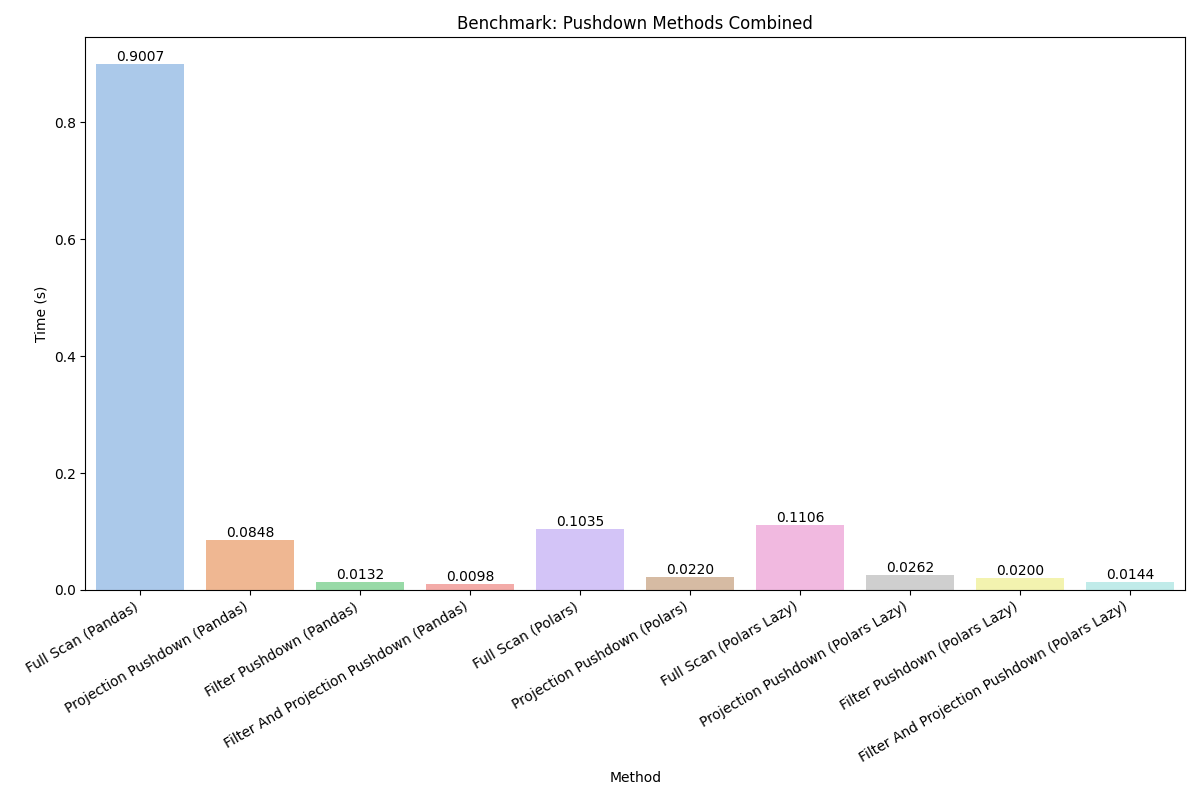
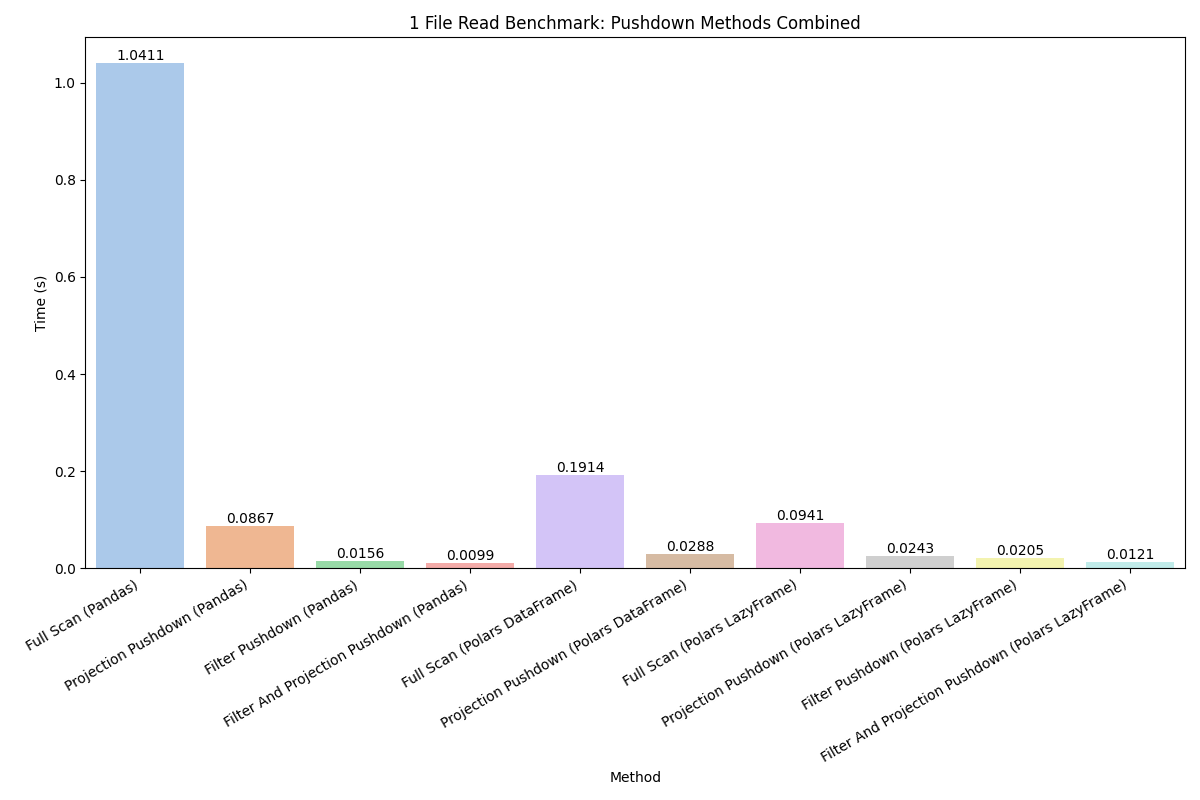
updated pushdown methods to be more accurate functions. experimented with sink_parquet and write_parquet speeds with polars

diff --git a/engine_speed/pushdown_comparisons.py b/engine_speed/pushdown_comparisons.py
@@ -6,6 +6,8 @@ import benchmark as bm
 FILE = "data/taxi_2019_04.parquet"
 FILTER = [("pickup_at", ">", datetime(2019, 6, 30))]
 COLUMNS = ["pickup_at", "total_amount"]  # subset for projection
+TITLE_START = "1 File Read Benchmark"
+SHOW_PLOTS = False
 REPEAT_TIMES = 5
 
 ### Pushdown comparisons for Pandas and Polars
@@ -13,7 +15,7 @@ REPEAT_TIMES = 5
 # --- Full scan: read everything, filter after
 def pd_read_all_then_filter():
     df = pd.read_parquet(FILE)
-    return df[df["pickup_at"] > pd.Timestamp("2019-06-30")]
+    return df[df["pickup_at"] > pd.Timestamp("2019-06-30")][COLUMNS]
 
 # --- Projection pushdown only
 def pd_read_columns_then_filter():
@@ -22,7 +24,7 @@ def pd_read_columns_then_filter():
 
 # --- Filter pushdown (pyarrow backend)
 def pd_read_with_filter_pushdown():
-    return pd.read_parquet(FILE, engine="pyarrow", filters=FILTER)
+    return pd.read_parquet(FILE, engine="pyarrow", filters=FILTER)[COLUMNS]
 
 # --- Filter + projection pushdown
 def pd_read_with_filter_and_projection():
@@ -33,7 +35,7 @@ def pd_read_with_filter_and_projection():
 # --- Full scan: read everything, filter after
 def pl_read_all_then_filter():
     df = pl.read_parquet(FILE)
-    return df.filter(pl.col("pickup_at") > datetime(2019, 6, 30))
+    return df.filter(pl.col("pickup_at") > datetime(2019, 6, 30)).select(COLUMNS)
 
 # --- Projection pushdown only
 def pl_read_columns_then_filter():
@@ -46,7 +48,7 @@ def pl_read_columns_then_filter():
 # Polars LazyFrames
 def pl_lazy_read_all_then_filter():
     lf = pl.scan_parquet(FILE)
-    return lf.collect().filter(pl.col("pickup_at") > datetime(2019, 6, 30))
+    return lf.collect().filter(pl.col("pickup_at") > datetime(2019, 6, 30)).select(COLUMNS)
 
 def pl_lazy_read_columns_then_filter():
     lf = pl.scan_parquet(FILE).select(COLUMNS)
@@ -73,14 +75,14 @@ methods_pushdown_pd = {
 }
 
 methods_pushdown_pl_df = {
-    "Full Scan (Polars)": pl_read_all_then_filter,
-    "Projection Pushdown (Polars)": pl_read_columns_then_filter,
+    "Full Scan (Polars DataFrame)": pl_read_all_then_filter,
+    "Projection Pushdown (Polars DataFrame)": pl_read_columns_then_filter,
 }
 methods_pushdown_pl_lf = {
-    "Full Scan (Polars Lazy)": pl_lazy_read_all_then_filter,
-    "Projection Pushdown (Polars Lazy)": pl_lazy_read_columns_then_filter,
-    "Filter Pushdown (Polars Lazy)": pl_lazy_read_with_filter_pushdown,
-    "Filter And Projection Pushdown (Polars Lazy)": pl_lazy_read_with_filter_and_projection,
+    "Full Scan (Polars LazyFrame)": pl_lazy_read_all_then_filter,
+    "Projection Pushdown (Polars LazyFrame)": pl_lazy_read_columns_then_filter,
+    "Filter Pushdown (Polars LazyFrame)": pl_lazy_read_with_filter_pushdown,
+    "Filter And Projection Pushdown (Polars LazyFrame)": pl_lazy_read_with_filter_and_projection,
 }
 
 results_pushdown_pd = bm.run_benchmark(methods_pushdown_pd, runs=REPEAT_TIMES)
@@ -93,16 +95,15 @@ results_pushdown_pl_lf = bm.run_benchmark(methods_pushdown_pl_lf, runs=REPEAT_TI
 results_pushdown_pl_lf_relative = bm.relative_speeds(results_pushdown_pl_lf)
 
 results_combined = {**results_pushdown_pd, **results_pushdown_pl_df, **results_pushdown_pl_lf}
-print(results_combined)
 
-# # Plotting the results
-bm.plot_results(results_pushdown_pd, "Benchmark: Pushdown Methods (Pandas)", "speed_pushdown_methods_pandas.png")
-bm.plot_results(results_pushdown_relative_pd, "Benchmark: Pushdown Methods (Pandas)", relative=True)
+# Plotting the results
+bm.plot_results(results_pushdown_pd, f"{TITLE_START}: Pushdown Methods (Pandas)", "speed_pushdown_methods_pandas.png")
+bm.plot_results(results_pushdown_relative_pd, f"{TITLE_START}: Pushdown Methods (Pandas)", relative=True, show=SHOW_PLOTS)
 
-bm.plot_results(results_pushdown_pl_df, "Benchmark: Pushdown Methods (Polars DataFrame)", "speed_pushdown_methods_polars.png")
-bm.plot_results(results_pushdown_pl_df_relative, "Benchmark: Pushdown Methods (Polars DataFrame)", relative=True)
+bm.plot_results(results_pushdown_pl_df, f"{TITLE_START}: Pushdown Methods (Polars DataFrame)", "speed_pushdown_methods_polars.png")
+bm.plot_results(results_pushdown_pl_df_relative, f"{TITLE_START}: Pushdown Methods (Polars DataFrame)", relative=True, show=SHOW_PLOTS)
 
-bm.plot_results(results_pushdown_pl_lf, "Benchmark: Pushdown Methods (Polars LazyFrame)", "speed_pushdown_methods_polars_lazy.png")
-bm.plot_results(results_pushdown_pl_lf_relative, "Benchmark: Pushdown Methods (Polars LazyFrame)", relative=True)
+bm.plot_results(results_pushdown_pl_lf, f"{TITLE_START}: Pushdown Methods (Polars LazyFrame)", "speed_pushdown_methods_polars_lazy.png")
+bm.plot_results(results_pushdown_pl_lf_relative, f"{TITLE_START}: Pushdown Methods (Polars LazyFrame)", relative=True, show=SHOW_PLOTS)
 
-bm.plot_results(results_combined, "Benchmark: Pushdown Methods Combined", "speed_pushdown_methods.png", xtick_rotation=30)
+bm.plot_results(results_combined, f"{TITLE_START}: Pushdown Methods Combined", "speed_pushdown_methods.png", xtick_rotation=30)

diff --git a/engine_speed/polars_sink_write_comparisons.py b/engine_speed/polars_sink_write_comparisons.py
@@ -1,0 +1,47 @@
+from datetime import datetime
+import pandas as pd
+import polars as pl
+import benchmark as bm
+
+from datetime import datetime
+import pandas as pd
+import polars as pl
+import benchmark as bm
+
+FILE = "data/taxi_2019_04.parquet"
+FILTER = [("pickup_at", ">", datetime(2019, 6, 30))]
+COLUMNS = ["pickup_at", "total_amount"]  # subset for projection
+TITLE_START = "1 File Read Benchmark"
+SHOW_PLOTS = False
+REPEAT_TIMES = 5
+
+df = pl.read_parquet(FILE).filter(pl.col("pickup_at") > datetime(2019, 6, 30)).select(COLUMNS)
+lf = pl.scan_parquet(FILE).filter(pl.col("pickup_at") > datetime(2019, 6, 30)).select(COLUMNS)
+
+# Polars sink vs write parquet
+def pl_read():
+    df = pl.read_parquet(FILE).filter(pl.col("pickup_at") > datetime(2019, 6, 30)).select(COLUMNS)
+    return df
+
+def pl_scan():
+    lf = pl.scan_parquet(FILE).filter(pl.col("pickup_at") > datetime(2019, 6, 30)).select(COLUMNS)
+    return lf
+
+def pl_write():
+    df.write_parquet("data/test.parquet")
+
+def pl_sink():
+    lf.sink_parquet("data/test.parquet")
+
+# Benchmarks
+methods_sink_write = {
+    "Read": pl_read,
+    "Scan": pl_scan,
+    "Write": pl_write,
+    "Sink": pl_sink
+}
+
+results_sink_write = bm.run_benchmark(methods_sink_write, runs=REPEAT_TIMES)
+
+# Plotting the results
+bm.plot_results(results_sink_write, f"{TITLE_START}: Polars Sink vs Write Methods (With Filters)", "speed_polars_sink_write_with_filters.png")

diff --git a/engine_speed/time_comparisons.py b/engine_speed/time_comparisons.py
@@ -3,14 +3,6 @@ import pandas as pd
 import polars as pl
 import duckdb
 from datetime import datetime
-# import time
-import pyarrow as pa
-# import numpy as np
-import matplotlib.pyplot as plt
-import seaborn as sns
-# import glob
-# import pyarrow.dataset as ds
-# import pyarrow.parquet as pq
 
 # Benchmark .py file
 import benchmark as bm
